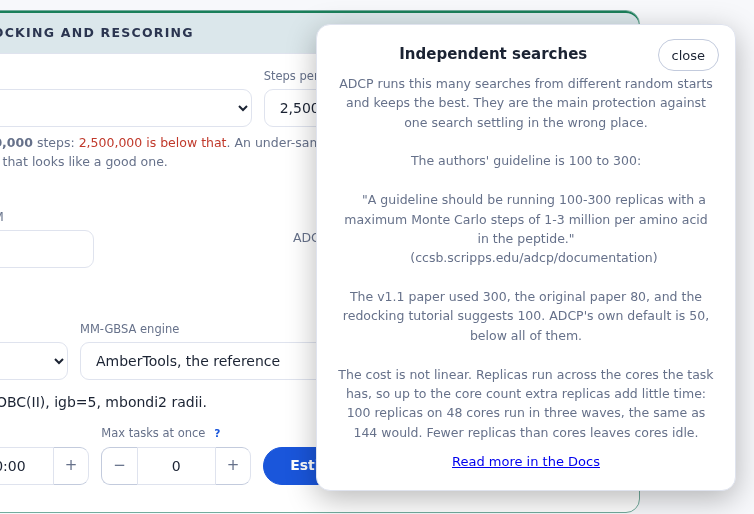
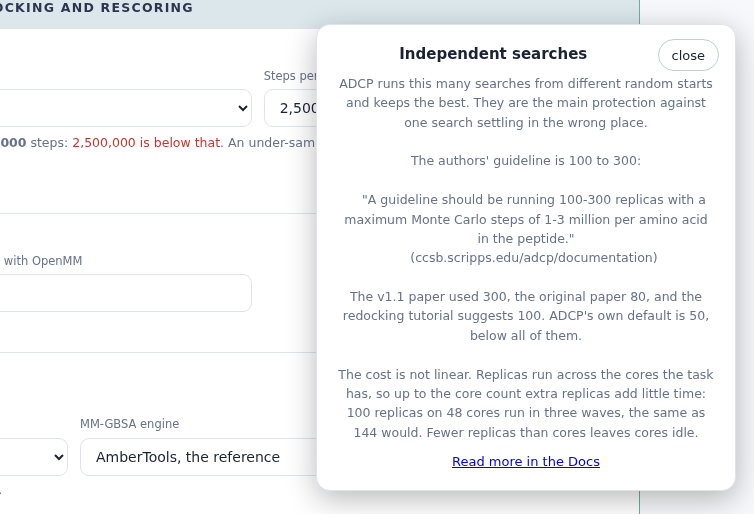
Docking card laid out in four parts on one grid

diff --git a/adcp_dock/static/app.js b/adcp_dock/static/app.js
@@ -872,12 +872,10 @@ function gbEngines(rows){
     box.checked = false;
     box.disabled = true;
     box.parentNode.title = 'MM-GBSA needs AmberTools (tleap, sander, MMPBSA.py)';
-    $('mmopts').classList.add('hide');
-  } else {
-    // The panel of MM-GBSA settings is revealed by the box's change event,
-    // which never fires for a box that starts ticked.
-    $('mmopts').classList.toggle('hide', !$('mmgbsa').checked);
   }
+  // The MM-GBSA settings follow the box, whose change event never fires
+  // for a box that starts ticked or is unticked here.
+  mmOpts();
   // Choices this machine cannot run are greyed out now, which the docking
   // step reads.
   guideSoon();
@@ -3417,8 +3415,19 @@ function pepmsg(text, bad){
   e.innerHTML = bad ? '<span class=bad>' + esc(text) + '</span>' : esc(text);
 }
 
-$('mmgbsa').onchange = () =>
-  $('mmopts').classList.toggle('hide', !$('mmgbsa').checked);
+/* Rescoring off: its settings stay in place, greyed and disabled, the way
+   the receptor's preparation greys a setting that does not apply, so
+   nothing under them moves when the box is ticked or unticked. A disabled
+   field is skipped by the keyboard and by the docking step's checks, which
+   read these only while the box is ticked. */
+function mmOpts(){
+  const on = $('mmgbsa').checked;
+  $('mmopts').classList.toggle('off', !on);
+  $('mmopts').querySelectorAll('input, select').forEach(el => {
+    el.disabled = !on;
+  });
+}
+$('mmgbsa').onchange = mmOpts;
 
 /* ===================== estimate and steppers ========================= */
 $('autofill').onclick = async () => {
@@ -4072,6 +4081,7 @@ async function reuseRun(dir){
     else if(id in REUSE_TICK_DEFAULTS) el.checked = REUSE_TICK_DEFAULTS[id];
   }
   if($('box_chains')) $('box_chains').checked = j.box_chains === 'include';
+  mmOpts();
   /* The target file before the receptor and the site, so the view and the
      site note know whether the run's box is the file's or the residues'. */
   if(String(j.target_file || '').trim() || TARGET) await loadTarget();

diff --git a/adcp_dock/docs/pages/rescoring.html b/adcp_dock/docs/pages/rescoring.html
@@ -37,10 +37,11 @@ unranked with the reason, and ADCP 1.1's own OpenMM minimisation is the number t
 use for them instead.</p>
 
 <figure>
-<img src="img/docking-settings.png" alt="The Docking and rescoring card, with the MM-GBSA row showing">
-<figcaption><b>The rescoring controls.</b> They appear once <b>Rescore with
-MM-GBSA</b> is ticked, and the line under them states the force field, the solvent
-model and the radii the energies will be computed with.</figcaption>
+<img src="img/docking-settings.png" alt="The Docking and rescoring card, with its Rescoring part showing">
+<figcaption><b>The rescoring controls.</b> They are greyed out until <b>Rescore with
+MM-GBSA</b> is ticked, and the line under the solvation model and the engine states
+the force field, the solvent model and the radii the energies will be computed
+with.</figcaption>
 </figure>
 
 <h2 id="poses-to-rescore">Poses to rescore</h2>

diff --git a/adcp_dock/page.py b/adcp_dock/page.py
@@ -310,6 +310,57 @@ textarea{font-family:ui-monospace,Menlo,monospace;font-size:12.5px;min-height:76
 .row button,.row .fixedval{height:38px;box-sizing:border-box}
 .row button{display:inline-flex;align-items:center;justify-content:center}
 .row .stepper button{height:38px}
+/* ---- the Docking and rescoring card: four parts on a grid -------------
+   Search, Engine, Rescoring and Resources, each under a small heading in the
+   style of the Receptor card's groups, with a hairline between parts rather
+   than a panel round each, which inside a card would read as a second card.
+
+   A part's row is a grid: three equal columns for the search and the
+   engine, four for the rescoring and the resources. Of the four, the middle
+   two hold the menus and are a little wider than the outer two, which hold
+   numbers and the button; at 1000 px equal columns cut off "AmberTools, the
+   reference". Every field starts on its column's edge, and the row is
+   bottom aligned, so a label that wraps rises and its control stays level
+   with the others.
+
+   A caption is a grid item of its own, in the column of the field it
+   describes. Inside the field it would make that field taller than its
+   neighbours and lift every other label to meet it. The row gap is the
+   space between rows of fields once they wrap; a caption takes most of it
+   back, so it sits close under its field.
+
+   Narrower, four columns become two, and the engine's two fields share a
+   line. On a phone every part is one column, the fields in the order they
+   are written, so each caption comes straight after its own field. */
+.dpart{text-align:left}
+.dpart+.dpart{margin-top:16px;padding-top:14px;border-top:1px solid var(--line)}
+.dpart>.grouphead{margin:0 0 9px}
+.dpart>.row{display:grid;gap:12px;align-items:end}
+.dpart.cols3>.row{grid-template-columns:repeat(3,minmax(0,1fr))}
+.dpart.cols4>.row{grid-template-columns:minmax(0,.85fr) minmax(0,1.15fr)
+  minmax(0,1.15fr) minmax(0,.85fr)}
+.dpart .dcap{align-self:start;margin-top:-7px}
+.dpart>.why{margin-top:7px}
+.dpart>.why:empty{display:none}
+.dpart>.checks{margin-top:10px}
+.dpart>.grouphead+.checks{margin-top:0}
+.dpart>.checks+.row{margin-top:10px}
+#enginenote{grid-row:2;grid-column:1}
+#mmcap{grid-row:2;grid-column:2/span 2}
+#autofill{width:100%}
+/* Rescoring off: its settings stay where they are, greyed and disabled, as
+   the receptor's preparation greys a setting that does not apply. */
+#mmopts.off{opacity:.45}
+@media (max-width:940px){
+  .dpart.cols4>.row,.dpart.dengine>.row{
+    grid-template-columns:repeat(2,minmax(0,1fr))}
+  #mmcap{grid-row:3;grid-column:1}
+}
+@media (max-width:600px){
+  .dpart.cols3>.row,.dpart.cols4>.row,.dpart.dengine>.row{
+    grid-template-columns:minmax(0,1fr)}
+  #enginenote,#mmcap{grid-row:auto;grid-column:auto}
+}
 /* ---- buttons: one hierarchy -------------------------------------------
    Four kinds, so a person new to the page can tell at a glance what to press:
      primary    filled in the accent: the one action a card's step waits for
@@ -1570,42 +1621,54 @@ __STALE__
 
 <div class=card id=step-docking data-step=docking>
   <h2>Docking and rescoring</h2>
-  <!-- Three equal fields, with nothing taller than the rest, so the labels
-       line up. The step guideline is its own line below the row. The
-       preparation pH was here and is now with the rest of the receptor's
-       preparation, in the Receptor card. -->
-  <div class=row>
-    <div><label for=poses>Poses per peptide</label>
-      <input type=number id=poses value="10" min="1" max="100"></div>
-    <div><label for=replicas>Search replicas</label>
-      __REPLICA_OPTIONS__</div>
-    <div><label for=steps>Steps per replica</label>
-      __STEP_OPTIONS__</div>
-  </div>
-  <div class=why id=stepsguide style="margin-top:7px"></div>
-  <!-- Off by default: every replica's trajectory is hundreds of files and
-       tens of megabytes per peptide. On, they are kept as one archive. -->
-  <div class="checks" style="margin-top:10px">
-    <label class=chk><input type=checkbox id=keep_trajectories>
-      <span>Keep every replica's trajectory</span></label>
+  <!-- Four parts, each under a small heading: the search, the engine, the
+       rescoring and the resources. The fields of a part sit on one grid (CSS
+       at .dpart), and a caption sits under the field it describes, in that
+       field's column. -->
+  <div class="dpart cols3">
+    <div class=grouphead>Search</div>
+    <!-- Three equal fields, with nothing taller than the rest, so the labels
+         line up. The step guideline is its own line below the row. The
+         preparation pH was here and is now with the rest of the receptor's
+         preparation, in the Receptor card. -->
+    <div class=row>
+      <div><label for=poses>Poses per peptide</label>
+        <input type=number id=poses value="10" min="1" max="100"></div>
+      <div><label for=replicas>Search replicas</label>
+        __REPLICA_OPTIONS__</div>
+      <div><label for=steps>Steps per replica</label>
+        __STEP_OPTIONS__</div>
+    </div>
+    <div class=why id=stepsguide></div>
+    <!-- Off by default: every replica's trajectory is hundreds of files and
+         tens of megabytes per peptide. On, they are kept as one archive. -->
+    <div class=checks>
+      <label class=chk><input type=checkbox id=keep_trajectories>
+        <span>Keep every replica's trajectory</span></label>
+    </div>
   </div>
   <!-- Which ADCP. 1.1 adds non-standard and D amino acids (N<BHD>, &D in a
-       sequence) and an OpenMM minimization of the top poses. -->
-  <div class=row style="margin-top:12px">
-    <div><label for=adcp_engine>Docking engine</label>
-      <select id=adcp_engine>
-        <option value=auto>ADCP, newest installed</option>
-        <option value="1.1">ADCP 1.1</option>
-        <option value="1.0">ADCP 1.0</option>
-      </select></div>
-    <div><label for=omm_minimize>Poses to minimize with OpenMM</label>
-      <input type=number id=omm_minimize value="0" min="0" max="10"></div>
-    <div class=why id=enginenote style="flex:2 1 260px;align-self:center"></div>
+       sequence) and an OpenMM minimization of the top poses. The version
+       found is the engine menu's caption, under it in its column. -->
+  <div class="dpart cols3 dengine">
+    <div class=grouphead>Engine</div>
+    <div class=row>
+      <div><label for=adcp_engine>Docking engine</label>
+        <select id=adcp_engine>
+          <option value=auto>ADCP, newest installed</option>
+          <option value="1.1">ADCP 1.1</option>
+          <option value="1.0">ADCP 1.0</option>
+        </select></div>
+      <div class="why dcap" id=enginenote></div>
+      <div><label for=omm_minimize>Poses to minimize with OpenMM</label>
+        <input type=number id=omm_minimize value="0" min="0" max="10"></div>
+    </div>
   </div>
-  <div class=row style="margin-top:12px">
-    <!-- The rescoring is decided after the docking, so its switch stays here.
-         The three receptor preparation switches that shared this row are in
-         the Receptor card. -->
+  <!-- The rescoring is decided after the docking, so its switch stays in
+       this card, at the head of its part. The three receptor preparation
+       switches that shared its row are in the Receptor card. -->
+  <div class="dpart cols4">
+    <div class=grouphead>Rescoring</div>
     <div class=checks>
       <!-- On by default. The docking score orders poses of the same
            peptide well and is a poor way to compare different peptides,
@@ -1615,7 +1678,9 @@ __STALE__
       <label class=chk><input type=checkbox id=mmgbsa checked>
         <span>Rescore with MM-GBSA</span></label>
     </div>
-    <div id=mmopts class="row hide" style="flex:1 1 auto">
+    <!-- Unticked, these stay in place, greyed and disabled (app.js,
+         mmOpts), so nothing below them moves. -->
+    <div id=mmopts class=row>
       <div><label for=mmposes>Poses to rescore</label>
         <input type=number id=mmposes value="5" min="1" max="10"></div>
       <div><label for=mmmodel title="The implicit solvent model the MM-GBSA energy is computed in. GB-OBC(II) is the default and what every earlier run used; GBn2 is a newer model with its own atomic radii. Both run in AmberTools and both give per residue energies. The two give different numbers, so compare peptides only within one model.">Solvation model</label>
@@ -1629,34 +1694,38 @@ __STALE__
           <option value="openmm">OpenMM, a second opinion on the same pose</option>
           <option value="schrodinger">Schrodinger Prime, OPLS</option>
         </select></div>
+      <!-- The force field, the solvent model and the radii the chosen engine
+           computes with, under the solvation and engine menus. -->
+      <div class="why dcap" id=mmcap><span class=note id=mmenginenote></span></div>
       <div><label for=topn>Report the mean of the top</label>
         <input type=number id=topn value="5" min="1" max="50"></div>
-      <div style="flex:1 1 100%"><span class=note id=mmenginenote></span></div>
     </div>
   </div>
-  <div class=row style="margin-top:12px">
-    <div style="flex:0 0 168px"><label for=cpus>Cores per task</label>
-      <div class=stepper>
-        <button class=st data-step="cpus:-4" type=button>&minus;</button>
-        <input type=number id=cpus value="48" min="1" max="256" step="4">
-        <button class=st data-step="cpus:4" type=button>+</button></div></div>
-    <div style="flex:0 0 190px"><label for=walltime>Walltime</label>
-      <div class=stepper>
-        <button class=st data-step="walltime:-30" type=button>&minus;</button>
-        <input type=text id=walltime value="02:00:00">
-        <button class=st data-step="walltime:30" type=button>+</button></div></div>
-    <div style="flex:0 0 150px"><label for=throttle>Max tasks at once</label>
-      <div class=stepper>
-        <button class=st data-step="throttle:-1" type=button>&minus;</button>
-        <input type=number id=throttle value="0" min="0" max="200">
-        <button class=st data-step="throttle:1" type=button>+</button></div></div>
-    <div style="flex:0 0 auto"><label>&nbsp;</label>
-      <button class=primary id=autofill title="Work out how long this will take and ask
+  <div class="dpart cols4">
+    <div class=grouphead>Resources</div>
+    <div class=row>
+      <div><label for=cpus>Cores per task</label>
+        <div class=stepper>
+          <button class=st data-step="cpus:-4" type=button>&minus;</button>
+          <input type=number id=cpus value="48" min="1" max="256" step="4">
+          <button class=st data-step="cpus:4" type=button>+</button></div></div>
+      <div><label for=walltime>Walltime</label>
+        <div class=stepper>
+          <button class=st data-step="walltime:-30" type=button>&minus;</button>
+          <input type=text id=walltime value="02:00:00">
+          <button class=st data-step="walltime:30" type=button>+</button></div></div>
+      <div><label for=throttle>Max tasks at once</label>
+        <div class=stepper>
+          <button class=st data-step="throttle:-1" type=button>&minus;</button>
+          <input type=number id=throttle value="0" min="0" max="200">
+          <button class=st data-step="throttle:1" type=button>+</button></div></div>
+      <div><button class=primary id=autofill title="Work out how long this will take and ask
 the queue for twice that and half an hour more, and at least two hours">Estimate &amp; fill</button></div>
+    </div>
+    <!-- Under the row the button fills: what the estimate assumed, and what
+         the jobs will book. -->
+    <div id=estnote class=why></div>
   </div>
-  <!-- Under the button that writes it: what the estimate assumed, and what
-       the jobs will book. -->
-  <div id=estnote class=why style="margin-top:9px"></div>
 </div>
 
 <!-- The last step: what the run is called, where it is written, the
